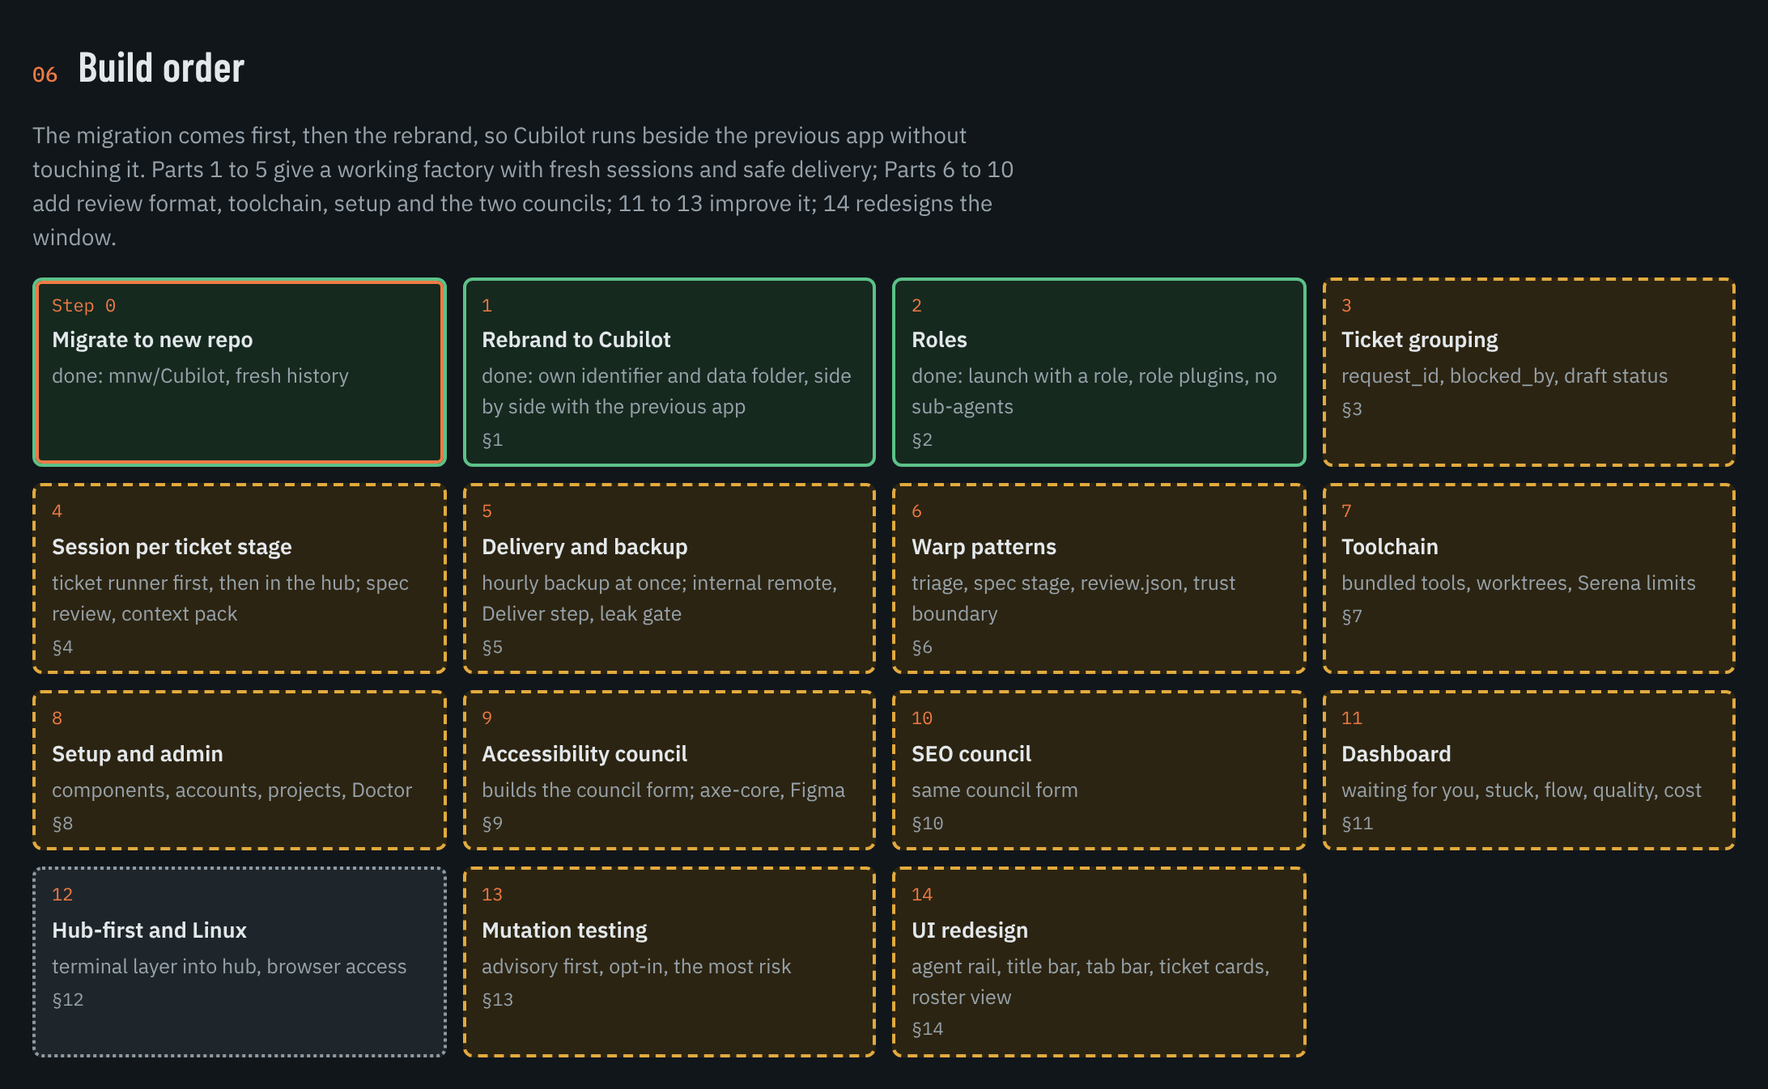
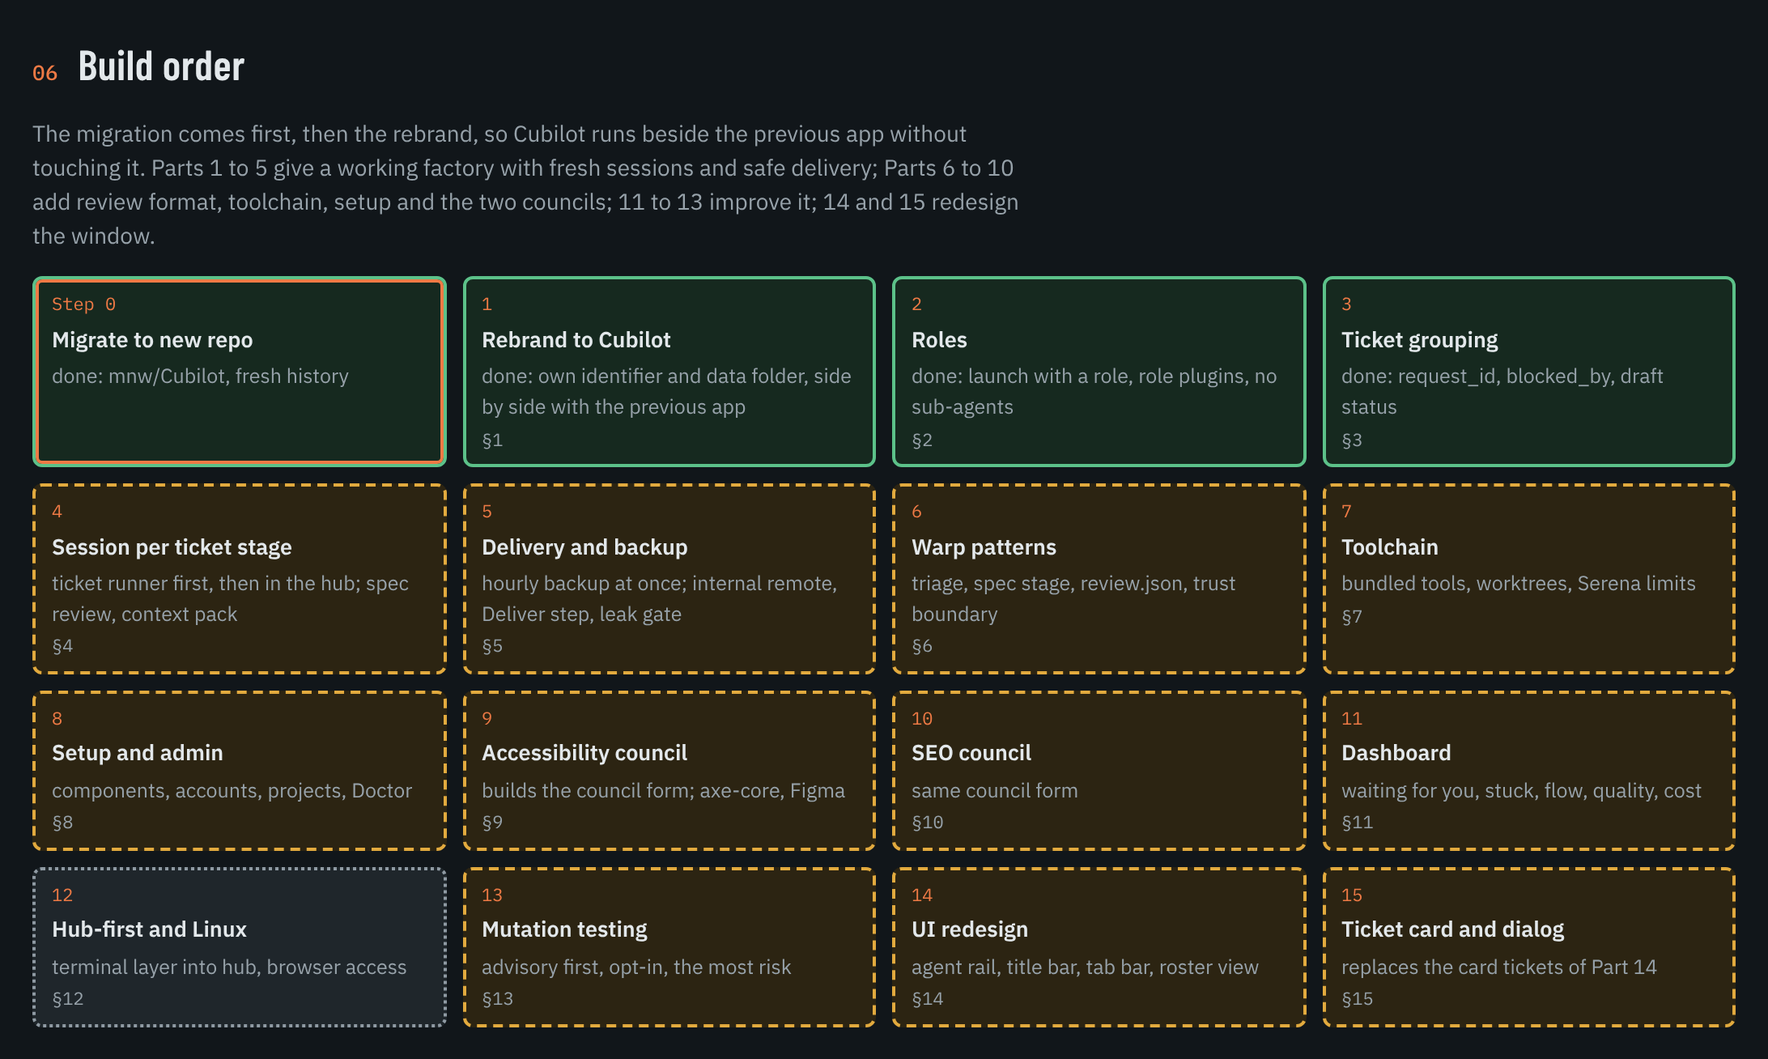
docs: archive ticket-grouping, sync work-tickets spec, mark Part 3 done
- Archive openspec change ticket-grouping (2026-10-23) and merge its spec delta into openspec/specs/work-tickets.
- Factory map, README pictures, brief index and work index show Part 3 as done.

Changed region(s): [[0.0, 0.1223, 0.9963, 0.9786], [0.7473, 0.4893, 0.9652, 0.581]]

diff --git a/docs/factory-map.html b/docs/factory-map.html
@@ -198,7 +198,7 @@ footer{color:var(--muted);font-size:12.5px;display:grid;gap:4px}
         <div class="n planned"><span class="t">Triage states, spec stage</span><span class="d">Ready / spec / needs info / wait</span><span class="ref">§6</span></div>
         <div class="n planned"><span class="t">Dashboard route</span><span class="d">Read-only, per room</span><span class="ref">§11</span></div>
         <div class="n planned"><span class="t">Context pack</span><span class="d">Stable prefix first (cache), primer, graph query, signatures, stage notes; no model</span><span class="ref">§4</span></div>
-        <div class="n idea"><span class="t">Requests and tasks</span><span class="d">blocked_by, context checkpoint at each task done</span><span class="ref">§3</span></div>
+        <div class="n built"><span class="t">Requests and tasks</span><span class="d">request_id, blocked_by, draft status; context checkpoints stay an idea</span><span class="ref">§3</span></div>
         <div class="n idea"><span class="t">Jev decision points</span><span class="d">Narrow typed decisions, see section 05</span></div>
       </div></div>
 
@@ -430,12 +430,12 @@ footer{color:var(--muted);font-size:12.5px;display:grid;gap:4px}
 <!-- 6 BUILD ORDER -->
 <section class="sec" aria-labelledby="h-seq">
   <h2 id="h-seq"><span class="num">06</span>Build order</h2>
-  <p class="intro">The migration comes first, then the rebrand, so Cubilot runs beside the previous app without touching it. Parts 1 to 5 give a working factory with fresh sessions and safe delivery; Parts 6 to 10 add review format, toolchain, setup and the two councils; 11 to 13 improve it; 14 redesigns the window.</p>
+  <p class="intro">The migration comes first, then the rebrand, so Cubilot runs beside the previous app without touching it. Parts 1 to 5 give a working factory with fresh sessions and safe delivery; Parts 6 to 10 add review format, toolchain, setup and the two councils; 11 to 13 improve it; 14 and 15 redesign the window.</p>
   <div class="seq">
     <div class="n built first"><span class="step">Step 0</span><span class="t">Migrate to new repo</span><span class="d">done: mnw/Cubilot, fresh history</span></div>
     <div class="n built"><span class="step">1</span><span class="t">Rebrand to Cubilot</span><span class="d">done: own identifier and data folder, side by side with the previous app</span><span class="ref">§1</span></div>
     <div class="n built"><span class="step">2</span><span class="t">Roles</span><span class="d">done: launch with a role, role plugins, no sub-agents</span><span class="ref">§2</span></div>
-    <div class="n planned"><span class="step">3</span><span class="t">Ticket grouping</span><span class="d">request_id, blocked_by, draft status</span><span class="ref">§3</span></div>
+    <div class="n built"><span class="step">3</span><span class="t">Ticket grouping</span><span class="d">done: request_id, blocked_by, draft status</span><span class="ref">§3</span></div>
     <div class="n planned"><span class="step">4</span><span class="t">Session per ticket stage</span><span class="d">ticket runner first, then in the hub; spec review, context pack</span><span class="ref">§4</span></div>
     <div class="n planned"><span class="step">5</span><span class="t">Delivery and backup</span><span class="d">hourly backup at once; internal remote, Deliver step, leak gate</span><span class="ref">§5</span></div>
     <div class="n planned"><span class="step">6</span><span class="t">Warp patterns</span><span class="d">triage, spec stage, review.json, trust boundary</span><span class="ref">§6</span></div>
@@ -446,12 +446,13 @@ footer{color:var(--muted);font-size:12.5px;display:grid;gap:4px}
     <div class="n planned"><span class="step">11</span><span class="t">Dashboard</span><span class="d">waiting for you, stuck, flow, quality, cost</span><span class="ref">§11</span></div>
     <div class="n idea"><span class="step">12</span><span class="t">Hub-first and Linux</span><span class="d">terminal layer into hub, browser access</span><span class="ref">§12</span></div>
     <div class="n planned"><span class="step">13</span><span class="t">Mutation testing</span><span class="d">advisory first, opt-in, the most risk</span><span class="ref">§13</span></div>
-    <div class="n planned"><span class="step">14</span><span class="t">UI redesign</span><span class="d">agent rail, title bar, tab bar, ticket cards, roster view</span><span class="ref">§14</span></div>
+    <div class="n planned"><span class="step">14</span><span class="t">UI redesign</span><span class="d">agent rail, title bar, tab bar, roster view</span><span class="ref">§14</span></div>
+    <div class="n planned"><span class="step">15</span><span class="t">Ticket card and dialog</span><span class="d">replaces the card tickets of Part 14</span><span class="ref">§15</span></div>
   </div>
 </section>
 
 <footer>
-  <span>Sources: <code>factory/README.md</code>, <code>factory/brief/</code> (index + 14 part files; §N = <code>brief/NN-*.md</code>), and <code>MIGRATION.md</code> for the source of the code.</span>
+  <span>Sources: <code>factory/README.md</code>, <code>factory/brief/</code> (index + 15 part files; §N = <code>brief/NN-*.md</code>), and <code>MIGRATION.md</code> for the source of the code.</span>
   <span>Model names are defaults. Check the OpenAI model with <code>pi --list-models</code> before release.</span>
 </footer>
 

diff --git a/openspec/specs/work-tickets/spec.md b/openspec/specs/work-tickets/spec.md
@@ -39,9 +39,10 @@ the hub never parses, validates against, or synchronises with the external syste
 
 ### Requirement: Ticket lifecycle is a state machine with one event per transition
 
-A ticket SHALL move through `queued → claimed → in_progress → in_review → done`, with
-`in_review → in_progress` for rework and `cancelled` reachable from any non-terminal
-status. `done` and `cancelled` are terminal. Every transition SHALL write exactly one row
+A ticket SHALL move through `draft → queued → claimed → in_progress → in_review → done`, with
+`in_review → in_progress` for rework, `queued → draft` to send a planned ticket back to review,
+and `cancelled` reachable from any non-terminal status. A ticket MAY start in `queued` without
+passing through `draft`. `done` and `cancelled` are terminal. Every transition SHALL write exactly one row
 in the shared `events` table and one `tickets` row update inside a single SQLite
 transaction, and its broadcast SHALL carry `version` equal to that event's `seq`.
 
@@ -61,11 +62,17 @@ transaction, and its broadcast SHALL carry `version` equal to that event's `seq`
 - **WHEN** a transition to `in_progress` is requested for a ticket already `done`
 - **THEN** the hub returns HTTP 409 and writes no new event
 
+#### Scenario: Draft to queued is one event
+
+- **WHEN** the room lead moves a `draft` ticket to `queued`
+- **THEN** one `ticket.queued` event and one `tickets` row update are committed in one transaction
+
 ### Requirement: Any agent in the Room may claim a queued ticket
 
 Claiming SHALL be first-come and SHALL set `assignee` to the claiming actor. Any agent in
-the ticket's Room, or the human, MAY claim a `queued` ticket. Claiming a ticket that is
-already claimed by another actor SHALL conflict rather than reassign.
+the ticket's Room, or the human, MAY claim a `queued` ticket whose blockers are all `done`.
+Claiming a ticket that is already claimed by another actor SHALL conflict rather than reassign.
+A `draft` ticket, or a ticket with an open blocker, SHALL refuse an agent's claim with HTTP 409.
 
 #### Scenario: First claim wins
 
@@ -77,6 +84,11 @@ already claimed by another actor SHALL conflict rather than reassign.
 
 - **WHEN** an agent whose room differs from the ticket's room attempts a claim
 - **THEN** the hub returns HTTP 403
+
+#### Scenario: Claim of a draft or blocked ticket is refused
+
+- **WHEN** an agent claims a `draft` ticket, or a `queued` ticket with an open blocker
+- **THEN** the hub returns HTTP 409 and the ticket does not change
 
 ### Requirement: The human or the creator may assign a ticket to an agent of its Room
 
@@ -126,12 +138,12 @@ still-pending request, as rework does.
 
 ### Requirement: A ticket may be created in any column
 
-`POST /tickets` SHALL accept a `status` of `queued` (the default), `in_progress`, `in_review` or `done`,
+`POST /tickets` SHALL accept a `status` of `queued` (the default), `draft`, `in_progress`, `in_review` or `done`,
 with or without an `assignee`. The ticket SHALL be created in that status by the single
 `ticket.created` event, and SHALL stay there until it is assigned or moved. Creating a ticket as
 `done` SHALL be allowed to the human only, and needs no approval request, as the human completes
 directly. Any other status value, `claimed` and `cancelled` included, SHALL get HTTP 400. A ticket
-that is outside `queued` and has no assignee SHALL be moved only by the human until it is assigned.
+that is outside `queued` and `draft` and has no assignee SHALL be moved only by the human until it is assigned.
 
 #### Scenario: Created in a column
 
@@ -144,6 +156,11 @@ that is outside `queued` and has no assignee SHALL be moved only by the human un
 - **WHEN** an agent creates a ticket with `status` `done`
 - **THEN** the hub returns HTTP 403 and persists nothing
 - **AND** the same request from the human succeeds, also for a `high` radius ticket, with no permission request
+
+#### Scenario: Created as a draft
+
+- **WHEN** the Orchestrator creates a ticket with `status` `draft`
+- **THEN** the ticket is `draft`, with one `ticket.created` event, and no one is woken
 
 ### Requirement: The human sets a lead agent per Room, and the lead triages unassigned tickets
 
@@ -399,13 +416,14 @@ The hub SHALL expose the tickets of one Room ordered by `priority` from `highest
 `lowest`, then `created_at` ascending. The hub SHALL store `priority` as a rank
 (`highest` 5 … `lowest` 1) and SHALL answer 400 for any other value, including an integer;
 a stored rank outside 1–5 SHALL read and sort as `medium`. Listing SHALL be a read route. The webview SHALL render that
-Room's tickets as a four-column board — `queued`, `in progress` (covering `claimed` and
+Room's tickets as a five-column board — `draft`, `queued`, `in progress` (covering `claimed` and
 `in_progress`), `in review`, `done` — and nothing else: `cancelled` tickets do not appear
 on the board (`list_tickets` and the list route with `status=all` still return them).
-Each card SHALL show its assignee and blast radius. Each column SHALL end with a `+`
+Each card SHALL show its assignee and blast radius, its `request_id` when it has one, and a blocked mark with the count of open blockers when it has any.
+Each column SHALL end with a `+`
 control that opens the ticket form in a modal. On save, the ticket SHALL be created and
 then moved into that column through the ordinary verbs, with the human as the actor
-(claim, then each transition). A failed move SHALL leave the ticket in the last column it
+(claim, then each transition). A ticket saved from the `draft` column SHALL be created as `draft`. A failed move SHALL leave the ticket in the last column it
 reached and report the error.
 
 #### Scenario: Backlog ordering
@@ -432,6 +450,11 @@ reached and report the error.
 - **THEN** the webview creates the ticket, claims it as the human, and moves it
   `in_progress` then `in_review`
 - **AND** a ticket saved from the `queued` column is only created
+
+#### Scenario: A blocked card shows its blockers
+
+- **WHEN** a `queued` ticket has two blockers that are not `done`
+- **THEN** its card shows the blocked mark with the count 2
 
 ### Requirement: The board shows each ticket's approval state
 
@@ -493,3 +516,89 @@ transaction SHALL write events for both kinds.
 
 - **WHEN** a handoff is created with no `context.ticket_id`
 - **THEN** it is accepted exactly as before this change
+
+### Requirement: Tickets of one request share a request label
+
+A ticket SHALL carry an optional `request_id`, a label that matches `^[A-Za-z0-9._-]{1,64}$`. All tickets of one human request SHALL carry the same label. The hub SHALL store no request entity: a request is the set of tickets in one Room with the same label. Ticket responses and broadcast entries SHALL carry `request_id` (or `null`). `GET /tickets` and `list_tickets` SHALL filter by `request_id`.
+
+#### Scenario: A label groups tickets
+
+- **WHEN** the Orchestrator creates three tickets with `request_id` `r-2026-10-22-login`
+- **THEN** a list filtered by that label returns the three tickets and no others
+
+#### Scenario: An invalid label is refused
+
+- **WHEN** a ticket is created with `request_id` `"bad label!"`
+- **THEN** the hub returns HTTP 400 and persists nothing
+
+### Requirement: A ticket names the tickets that block it
+
+A ticket SHALL carry an optional `blocked_by` list of at most 20 ticket ids. Each id SHALL name an existing ticket in the same Room and SHALL NOT name the ticket itself. The list SHALL NOT make a cycle. The hub SHALL store the list in `ticket_blockers` in the same transaction as the event that sets it. Ticket responses and broadcast entries SHALL carry `blocked_by` and `open_blockers` (the ids that are not `done`).
+
+#### Scenario: A cycle is refused
+
+- **GIVEN** B is blocked by A and C is blocked by B
+- **WHEN** an edit sets A's `blocked_by` to [C]
+- **THEN** the hub returns HTTP 400 that names the cycle and persists nothing
+
+#### Scenario: A blocker in another Room is refused
+
+- **WHEN** a ticket's `blocked_by` names a ticket in another Room
+- **THEN** the hub returns HTTP 400 and persists nothing
+
+#### Scenario: The list and the event are one transaction
+
+- **WHEN** `edit_ticket` replaces a ticket's `blocked_by`
+- **THEN** one `ticket.edited` event and the `ticket_blockers` rows commit in one transaction
+
+### Requirement: A ticket cannot be claimed while a blocker is not done
+
+A claim by an agent SHALL get HTTP 409 `blocked by <id> (<status>)` while any ticket in the ticket's `blocked_by` is not `done`. A `cancelled` blocker still blocks. The human SHALL NOT be gated.
+
+#### Scenario: A blocked ticket refuses a claim
+
+- **GIVEN** ticket B has `blocked_by` [A] and A is `in_progress`
+- **WHEN** an agent claims B
+- **THEN** the hub returns HTTP 409 `blocked by A (in_progress)` and B does not change
+
+#### Scenario: The ticket unblocks when its blocker is done
+
+- **GIVEN** ticket B has `blocked_by` [A]
+- **WHEN** A moves to `done` and an agent then claims B
+- **THEN** the claim succeeds
+
+### Requirement: A draft ticket cannot be claimed and wakes no one
+
+A `draft` ticket SHALL NOT be claimed (HTTP 409). `ticket.new` and `ticket.assigned` SHALL wake no one while the ticket is `draft`, and the room lead SHALL NOT be woken to triage it. The normal wakes SHALL run when the ticket moves to `queued`.
+
+#### Scenario: A draft cannot be claimed
+
+- **WHEN** an agent claims a `draft` ticket
+- **THEN** the hub returns HTTP 409 and the ticket does not change
+
+#### Scenario: A draft wakes no one until it is queued
+
+- **GIVEN** a `draft` ticket assigned to `worker-1`
+- **WHEN** the room lead moves it to `queued`
+- **THEN** `worker-1` is woken once, and was not woken before the move
+
+### Requirement: The human or the room lead approves a draft
+
+The human or the room lead SHALL move a ticket from `draft` to `queued`. The room lead SHALL get HTTP 403 when a non-terminal ticket with the same `request_id` has `blast_radius: high`. A ticket without `request_id` is checked alone. The human or the room lead SHALL move a ticket from `queued` back to `draft`. From a later status only the human SHALL do it. The `transition_ticket` tool SHALL offer `draft` and `queued`.
+
+#### Scenario: A high request needs the human
+
+- **GIVEN** a request with two `draft` tickets, one of them `blast_radius: high`
+- **WHEN** the room lead moves the low ticket to `queued`
+- **THEN** the hub returns HTTP 403
+- **AND** the same move by the human succeeds
+
+### Requirement: Request and blockers freeze after the claim
+
+`request_id` and `blocked_by` SHALL be changed only by the human, the creator or the room lead. They SHALL change only while the ticket is `draft` or `queued`, except by the human.
+
+#### Scenario: Blockers freeze after the claim
+
+- **WHEN** an agent edits `blocked_by` of a `claimed` ticket
+- **THEN** the hub returns HTTP 409
+- **AND** the same edit by the human succeeds

diff --git a/factory/brief/00-index.md b/factory/brief/00-index.md
@@ -11,10 +11,10 @@ Date: 2026-10-16. Line numbers refer to the working tree on that date, with the 
 
 The app has the name Cubilot (Part 1, done). The app must also launch any agent with a factory role, and must launch a full factory team in one action. A role gives the agent its instructions, its model, its tool limits and only its own skills. The role definitions and skills are in `factory/` (see `README.md`).
 
-The brief has fourteen parts. The numbers follow the build order (decision 2026-10-19). Each part is one file in this folder:
+The brief has fifteen parts. The numbers follow the build order (decision 2026-10-19). Each part is one file in this folder:
 1. [01-rebrand.md](01-rebrand.md): Rebrand to Cubilot (done). The names in use, the open items, and how to retire the previous app.
 2. [02-factory-roles.md](02-factory-roles.md): Factory roles (done): launch agents with a role. First, use a launch script, before the app work.
-3. [03-ticket-grouping-checkpoints.md](03-ticket-grouping-checkpoints.md): Ticket grouping: requests, `blocked_by` and the `draft` status. The context checkpoints stay an idea.
+3. [03-ticket-grouping-checkpoints.md](03-ticket-grouping-checkpoints.md): Ticket grouping (done): requests, `blocked_by` and the `draft` status. The context checkpoints stay an idea.
 4. [04-sessions.md](04-sessions.md): Visible sessions: no sub-agents, and one new session for each ticket stage. First, use a ticket runner outside the app.
 5. [05-delivery-backup.md](05-delivery-backup.md): Internal remote, clean delivery to the client, backups and recovery. You can set up the hourly backup at once.
 6. [06-warp-patterns.md](06-warp-patterns.md): Patterns from the Warp cloud factory: triage states, a spec stage, the `review.json` format, the trust boundary, follow-up reviews.
@@ -26,6 +26,7 @@ The brief has fourteen parts. The numbers follow the build order (decision 2026-
 12. [12-hub-first-linux.md](12-hub-first-linux.md): Hub-first architecture, browser access and Linux hosting (idea).
 13. [13-mutation-testing.md](13-mutation-testing.md): Mutation testing: advisory first, opt-in for each project. Last, because of its risk.
 14. [14-ui-redesign.md](14-ui-redesign.md): UI redesign (refined warm terminal). One agent rail, one title bar and a compact chat log. One tab bar for the right pane, clearer ticket cards and an Agent roster view.
+15. [15-ticket-card-dialog.md](15-ticket-card-dialog.md): Ticket card and ticket dialog redesign. It replaces T11, T12 and T13 of Part 14.
 
 ## How to use these files
 

diff --git a/factory/brief/14-ui-redesign.md b/factory/brief/14-ui-redesign.md
@@ -100,6 +100,7 @@ Most mockup colours match existing tokens. Use the token, not the mockup value.
 Token changes:
 
 1. **Meta text.** `--text-dim` (#6b5d51) on `--bg` has a contrast of about 2.6:1. That fails 4.5:1. Add the skin token `--text-meta`. Set it to #978B78 in the default theme (about 5:1). Set it to the `--text-muted` value in the two Rosé Pine blocks. Use it for times, counts and section labels. Do not change `--text-dim`, because other rules use it.
+   Measured on 2026-10-23 (ticket-grouping, task 6.5): four texts use `--text-dim` at 2.2 to 3.0:1 in all three themes. These are the roster, the nutshell, the chat time and the usage bar. Each text that gives information moves to `--text-meta`. `--text-dim` stays only for decoration (borders, disabled controls). In dawn and moon, `--text-muted` is now #6a6587 and #a29fbb (4.5:1 or more on every surface).
 2. **Role colours.** Add these skin tokens. Each one points to an existing accent, so the themes need no new values.
    - `--role-lead: var(--orange)` for `orchestrator`
    - `--role-worker: var(--amber)` for `worker`
@@ -415,6 +416,7 @@ The UI cannot tell if an agent is running a turn or waiting. The bridge core alr
    - drag and drop onto a collapsed column (T11)
    - the needs-attention pulse on a rail row (T03)
    - "Reload settings" from the title bar and from the roster view (T02, T14)
+4. Contrast: measure every text in the main window, the board, the dialog and the roster view, in the three themes. No text that gives information is below 4.5:1. Record the measurements.
 
 ## Open questions for the human
 

diff --git a/factory/work/README.md b/factory/work/README.md
@@ -6,7 +6,8 @@ Each folder here is one OpenSpec change, drafted from one part of the brief (`..
 |---|---|---|
 | Part 1, `01-rebrand.md` | (done without an OpenSpec change) | done |
 | Part 2, `02-factory-roles.md` | `openspec/changes/archive/2026-10-22-factory-roles/` | done (archived 2026-10-22) |
-| Part 3, `03-ticket-grouping-checkpoints.md` | `openspec/changes/ticket-grouping/` | active (drafted 2026-10-22, valid with `--strict`) |
+| Part 3, `03-ticket-grouping-checkpoints.md` | `openspec/changes/archive/2026-10-23-ticket-grouping/` | done (archived 2026-10-23) |
+| Part 4, `04-sessions.md` | `openspec/changes/stage-sessions/` | active (valid with `--strict`). Two more changes follow: `spec-review-stage` and `context-pack`. |
 
 Rules:
 - The brief keeps the research and the reasons. The change keeps the work. Do not copy the research into the change. Link to the brief.

diff --git a/README.md b/README.md
@@ -45,7 +45,7 @@ Cubilot is a macOS desktop app. It runs a team of coding agents (Claude Code, an
 
 <picture>
   <source media="(prefers-color-scheme: dark)" srcset="docs/readme/06-build-order-dark.png">
-  <img alt="Build order: migration, rebrand and roles done, then Parts 3 to 14" src="docs/readme/06-build-order-light.png" width="100%">
+  <img alt="Build order: migration, rebrand, roles and ticket grouping done, then Parts 4 to 15" src="docs/readme/06-build-order-light.png" width="100%">
 </picture>
 
 ## Build from source
